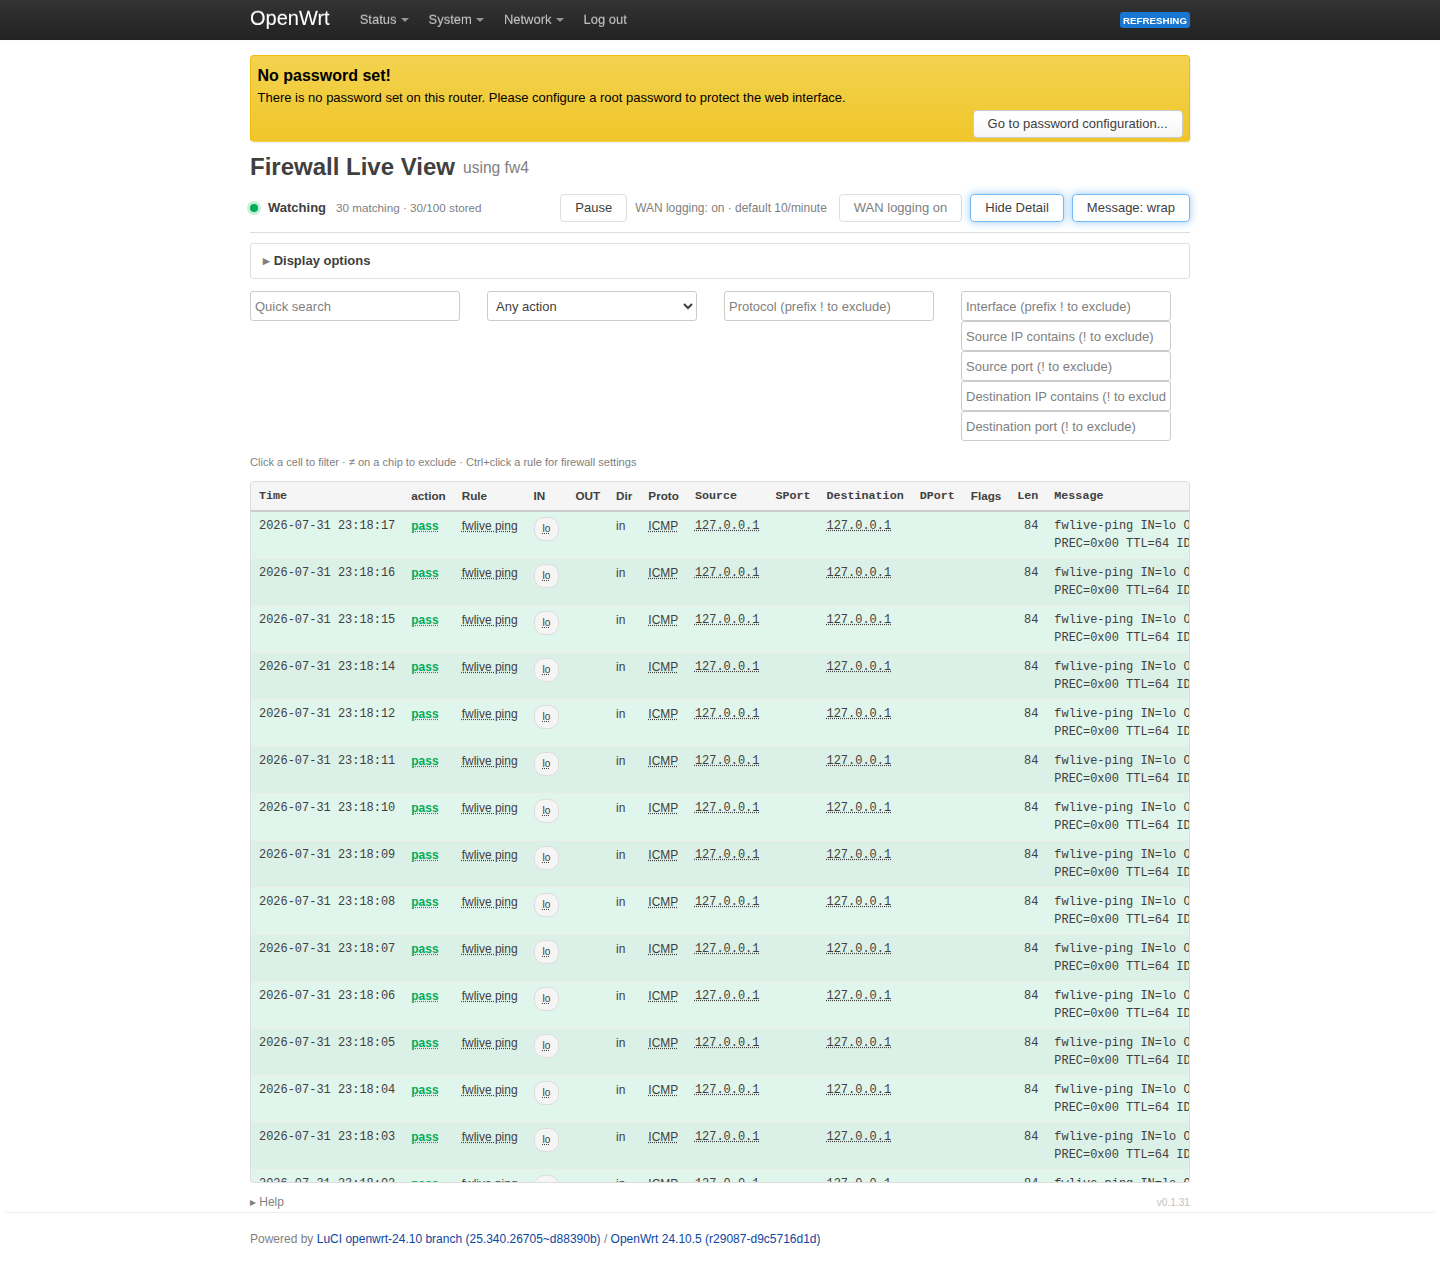
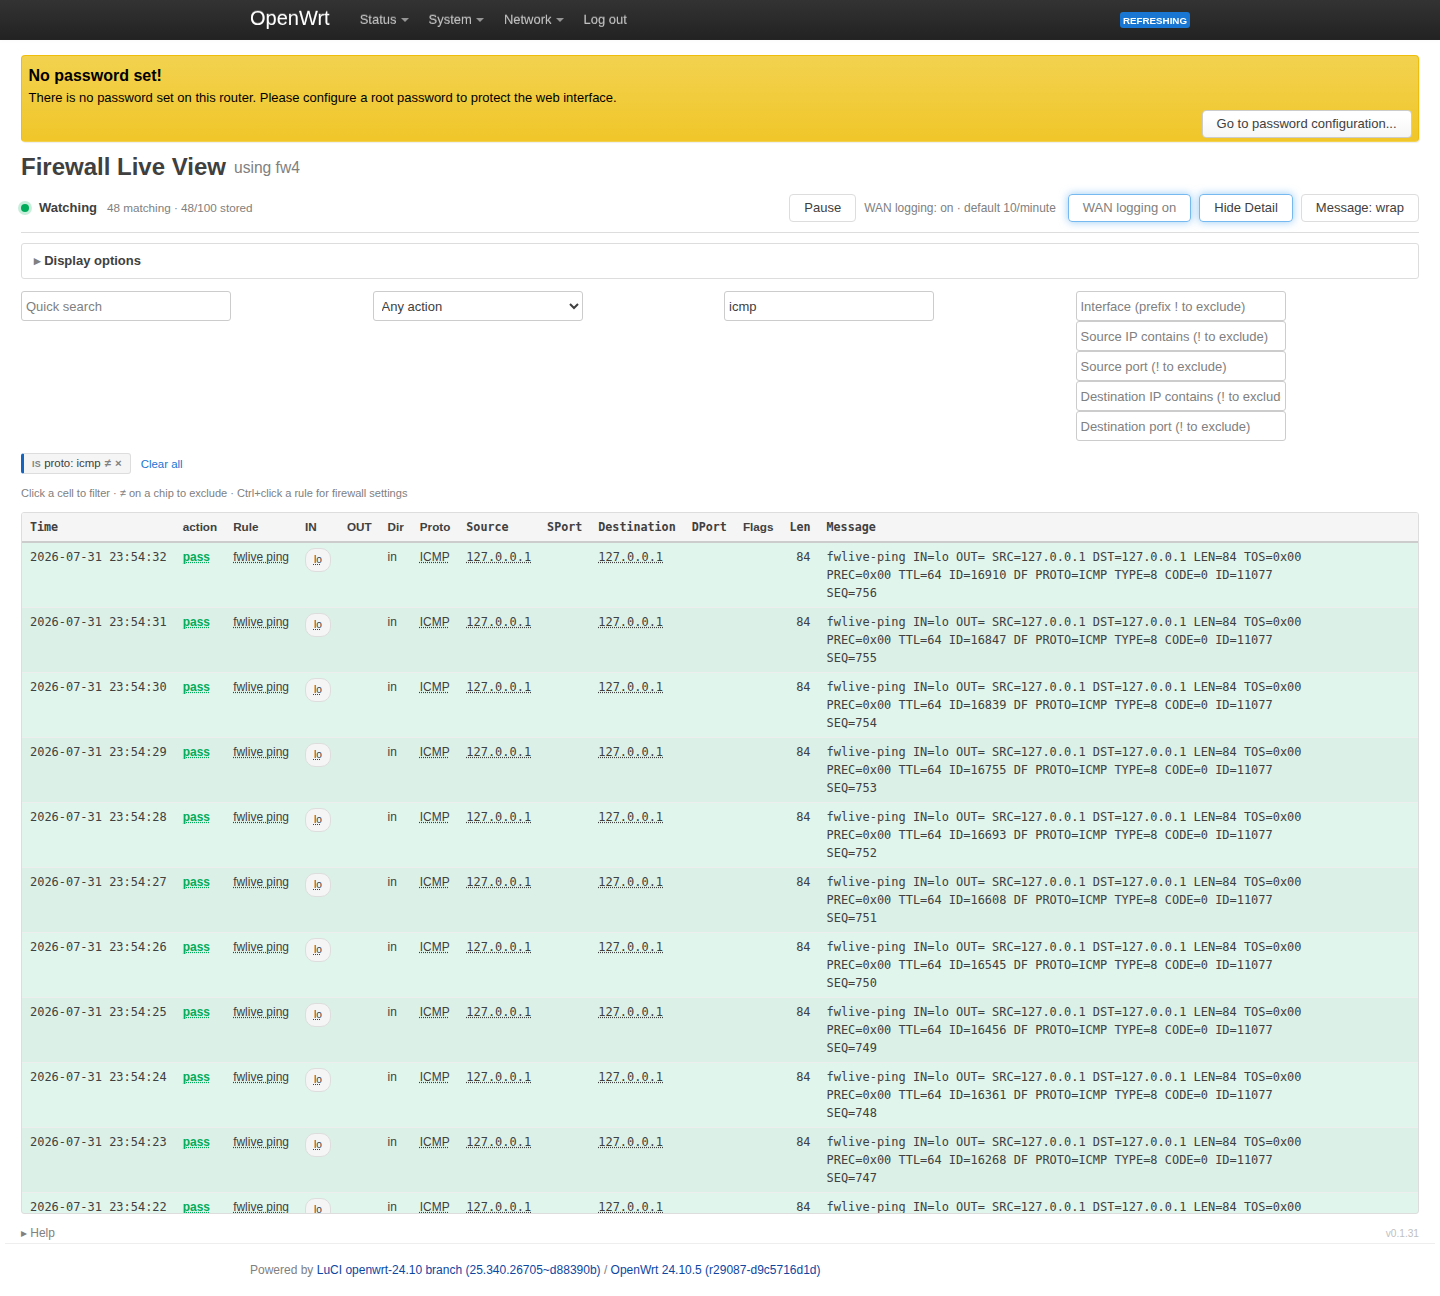
docs: recapture Detail-view screenshot for full-width layout
Show Detail now uses the full browser width; refresh fwlive-main-view.png
and note the behavior in the guide.

diff --git a/docs/user/using-the-ui.md b/docs/user/using-the-ui.md
@@ -69,7 +69,7 @@ Click **Show Detail** on the watch strip. Click **Hide Detail** to return to Sim
 
 ![Detailed view — all columns](assets/fwlive-main-view.png)
 
-1. **Show Detail** switches to the wide forensic table.
+1. **Show Detail** switches to the forensic table and uses the full browser width (Simple keeps LuCI's normal column) — widen the window to see more per row.
 2. Every normalized field is visible in one row (including Message).
 3. **Message: wrap / one-line** (next to Show Detail) applies in Detailed view only.
 
